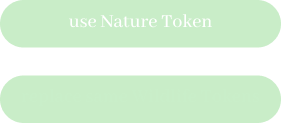
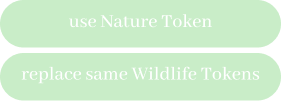
Game Panel

diff --git a/src/main/java/Graphics/GamePanel.java b/src/main/java/Graphics/GamePanel.java
@@ -12,6 +12,15 @@ import java.awt.Graphics;
 import java.util.Objects;
 import java.awt.image.BufferedImage;
 import javax.imageio.ImageIO;
+import java.awt.Font;
+import java.awt.GraphicsEnvironment;
+import java.awt.GridBagConstraints;
+import java.awt.GridBagLayout;
+
+import javax.swing.JComboBox;
+import javax.swing.JFrame;
+import javax.swing.JScrollPane;
+import javax.swing.JTextArea;
 
 public class GamePanel extends JPanel implements MouseListener{
 	private BufferedImage background, ntButtons, scoreCards, test;
@@ -309,20 +318,23 @@ public class GamePanel extends JPanel implements MouseListener{
 		//g.setFont();
 		if(gameState == 1){
 			if(gameState2 == 0){
-				g.drawString("Player " + (turn + 1) + "pick a habitat tile and wildlife token", 500, 100);
+				g.drawString("Player: " + (turn + 1)/* + " pick a habitat tile and wildlife token"*/, 500, 100);
+				g.drawString("Pick a habitat tile and wildlife token", 500, 115);
 			}
 			if(gameState2 == 1){
-				g.drawString("Player " + (turn + 1) + "place habitat tile ", 500, 100);
+				g.drawString("Player: " + (turn + 1)/* + " place habitat tile "*/, 500, 100);
+				g.drawString("Place habitat tile", 500, 115);
 			}
 		}
 		if(gameState == 2){
-			g.drawString("Player " + (turn + 1) + "place wildlife token", 500, 100);
+			g.drawString("Player: " + (turn + 1)/* + " place wildlife token"*/, 500, 100);
+			g.drawString("Place wildlife token", 500, 115);
 		}
 	}
 
 	public void drawBackground(Graphics g) {
 		g.drawImage(background, 0, 0, 1920, 1080, null);
-		g.drawImage(ntButtons, 34, 917, 281, 123, null);
+		g.drawImage(ntButtons, 34, 850, 281, 123, null);
 	}
 
 	public void drawNatureTokenMenu(Graphics g) {
@@ -331,9 +343,11 @@ public class GamePanel extends JPanel implements MouseListener{
 	}
 
 	public void drawPlayerInfo(Graphics g) {
+		g.setFont(new Font("DialogInput", Font.PLAIN, 20));
+
 		g.drawString("Player " + (turn + 1), 50,65);
 		g.drawString("Turns Left: " + game.getPlayerList().get(turn).getTurnsLeft(), 50,95);
-		g.drawString("Nature Tokes: " + game.getPlayerList().get(turn).getPlayerBoard().getNatureTokens(), 50,125);
+		g.drawString("Nature Tokens: " + game.getPlayerList().get(turn).getPlayerBoard().getNatureTokens(), 50,125);
 	}
 
 	public void drawHabitatDashboard(Graphics g){
